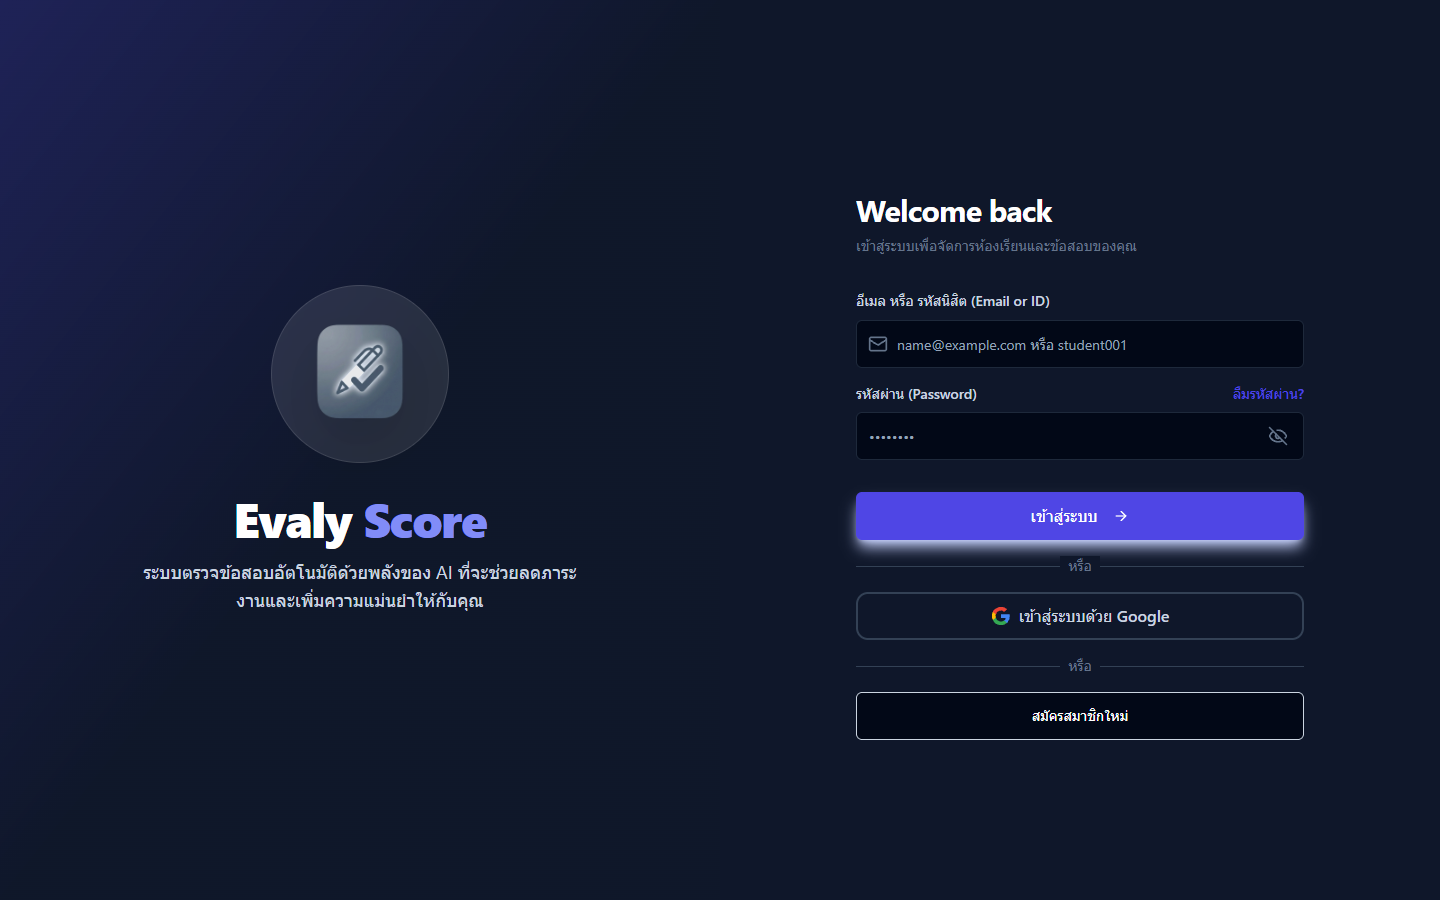
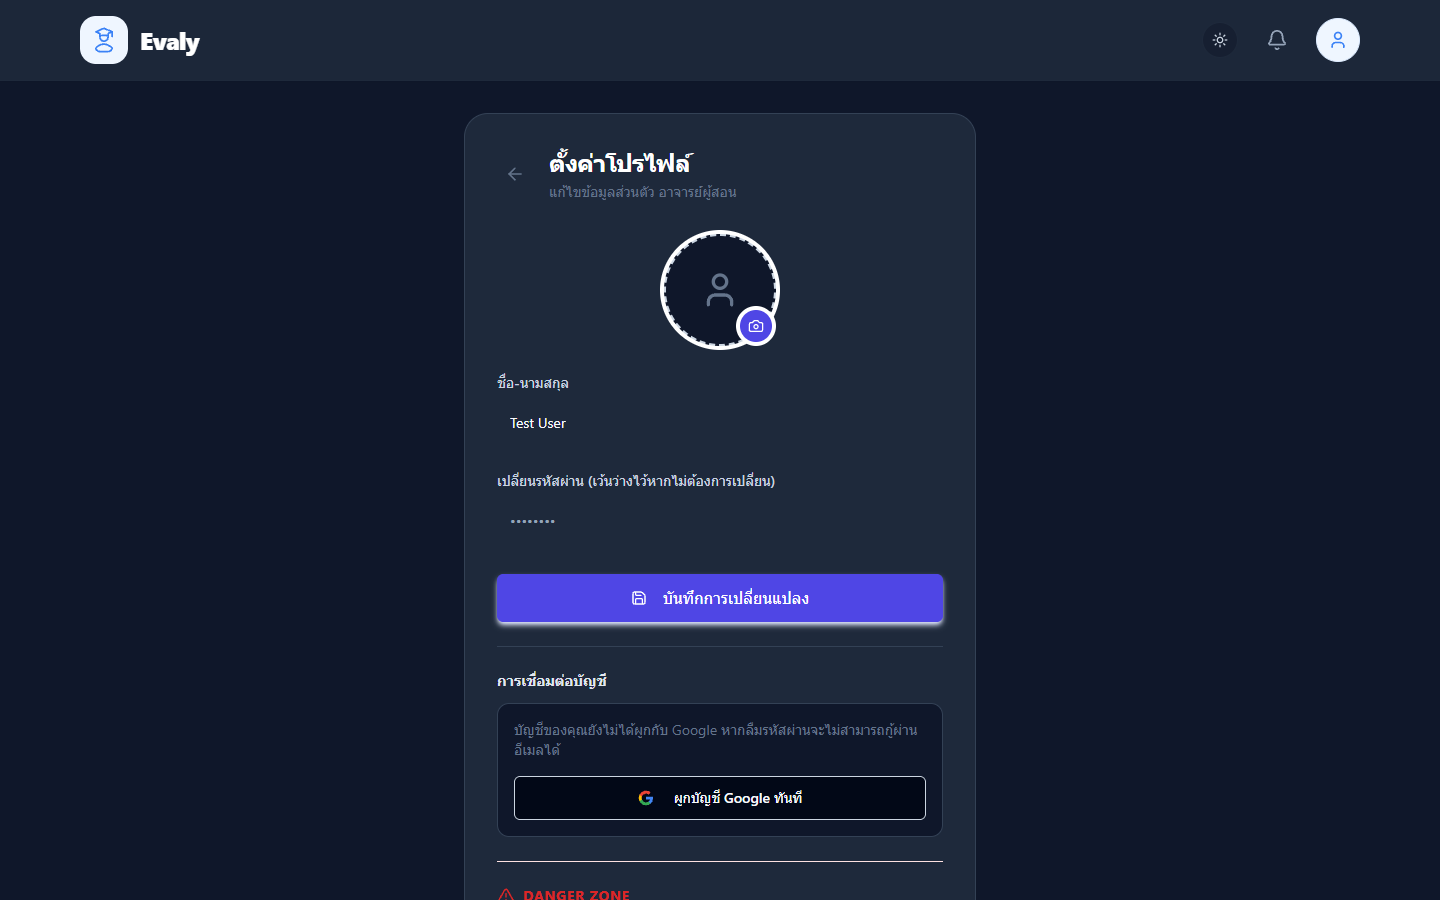
fix: profile redirect bug and add dashboard/profile screenshots

diff --git a/client/pages/Profile.tsx b/client/pages/Profile.tsx
@@ -11,7 +11,7 @@ import { auth } from "@/lib/firebase";
 import { GoogleAuthProvider, signInWithPopup } from "firebase/auth";
 
 export default function Profile() {
-  const { user, token, updateUser, logout } = useAuth();
+  const { user, token, updateUser, logout, isLoading: isAuthLoading } = useAuth();
   const navigate = useNavigate();
 
   const [name, setName] = useState("");
@@ -22,15 +22,17 @@ export default function Profile() {
   const [isLoading, setIsLoading] = useState(false);
 
   useEffect(() => {
-    if (!token || !user) {
+    if (!isAuthLoading && (!token || !user)) {
       navigate("/");
       return;
     }
-    setName(user.name);
-    if (user.avatarUrl) {
-      setAvatarPreview(`/uploads/avatars/${user.avatarUrl}`);
+    if (user) {
+      setName(user.name);
+      if (user.avatarUrl) {
+        setAvatarPreview(`/uploads/avatars/${user.avatarUrl}`);
+      }
     }
-  }, [user, token, navigate]);
+  }, [user, token, isAuthLoading, navigate]);
 
   const handleAvatarChange = (e: React.ChangeEvent<HTMLInputElement>) => {
     const file = e.target.files?.[0];
@@ -170,7 +172,7 @@ export default function Profile() {
     visible: { opacity: 1, transition: { staggerChildren: 0.1 } }
   };
 
-  if (!user) return null;
+  if (isAuthLoading || !user) return null;
 
   return (
     <div className="min-h-screen bg-slate-50 dark:bg-slate-900">
